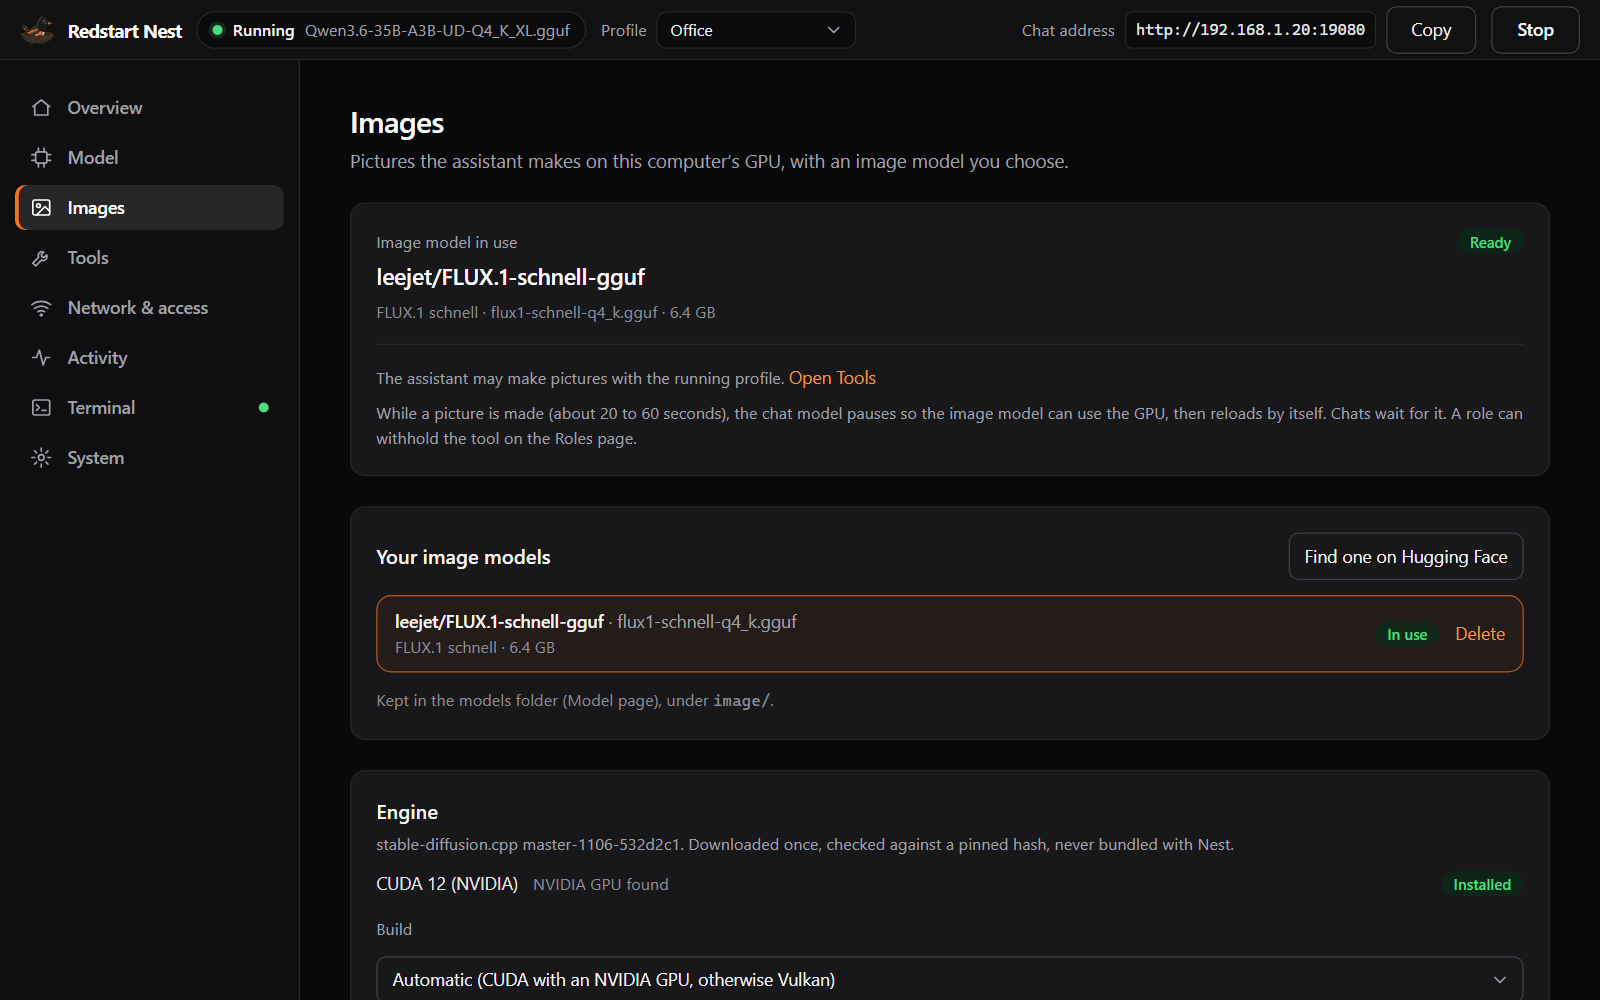
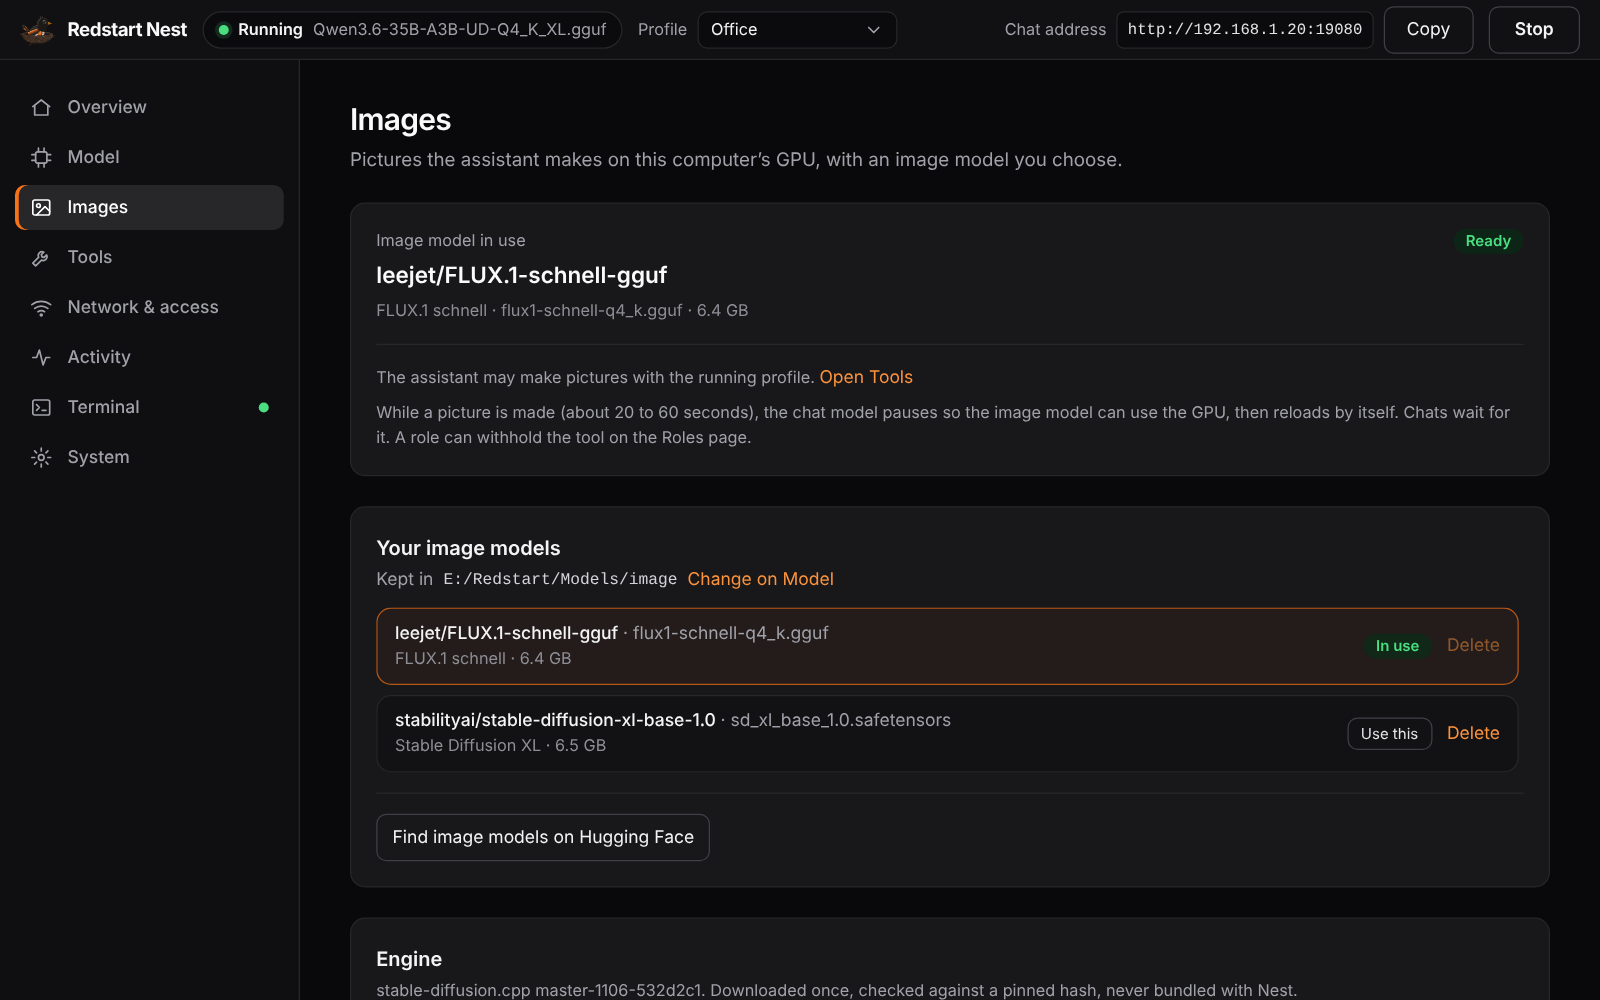
docs(readme): screenshots of the Hugging Face browsers; fixes they turned up
README: the chat-model and image-model Hugging Face browsers under Model and
Images, and the Images page retaken (its list is now the Model page's).
These were taken of the real launcher UI in a headless browser against a
faked daemon (sample models, an RTX 3060 with 31 GB of RAM, as in the other
screenshots), since Hugging Face and a GPU are out of reach where they were
made.

Taking them found three things, fixed here:
- The browsers showed no GPU or RAM, and so no memory bars, unless "Check
  hardware" had been pressed on the Model page this session. Opening either
  browser now reads the hardware (ensureHardware), without the thread and
  GPU-layer reset that "Check hardware" also does, so the profile is not
  marked as changed.
- The Images page said "the models folder" instead of the path until the
  Model page had been opened; it now reads the folder itself.
- Model names in the results broke mid-word ("…A3B-GG / UF"); they now wrap
  at hyphens. The image search box no longer squeezes its placeholder to
  "Searcl" when both chips show.

Claude-Session: https://claude.ai/code/session_013KefXYcMEkp2Gko3WMCut4

diff --git a/redstart-nest/src/launcher/sections/ImagesSection.tsx b/redstart-nest/src/launcher/sections/ImagesSection.tsx
@@ -13,7 +13,7 @@
 // The cost is said plainly: the chat model pauses while a picture is made.
 // =============================================================================
 
-import { useState } from 'react'
+import { useEffect, useState } from 'react'
 import { getAPI } from '../api/redstart'
 import type { HardwareSpecs, ImageGenerationStatus, ImageModelEntry, ImageTransferProgress, LlamaConfig } from '../types'
 import type { SectionId } from './Sidebar'
@@ -26,7 +26,7 @@ import { HardwareFacts } from '../components/HubBrowser'
 const size = (n: number | null | undefined) => typeof n === 'number' ? (n >= 1024 ** 3 ? `${(n / 1024 ** 3).toFixed(1)} GB` : `${Math.round(n / 1024 ** 2)} MB`) : '—'
 const pct = (p: ImageTransferProgress | null) => p?.totalBytes ? Math.min(100, Math.round(((p.receivedBytes ?? 0) / p.totalBytes) * 100)) : 0
 
-export function ImagesSection({ config, documentsConfigured, onNavigate, hardware, diskFreeBytes, modelsDir }: {
+export function ImagesSection({ config, documentsConfigured, onNavigate, hardware, onNeedHardware, diskFreeBytes, modelsDir }: {
   config: LlamaConfig
   documentsConfigured: boolean
   onNavigate: (s: SectionId) => void
@@ -35,9 +35,15 @@ export function ImagesSection({ config, documentsConfigured, onNavigate, hardwar
   diskFreeBytes?: number
   /** The Model page's models folder; image models live in its image/ folder. */
   modelsDir?: string
+  /** Read the hardware (without changing settings) for the browser's memory bars. */
+  onNeedHardware?: () => void
 }) {
   const { status, error, engineProgress, downloadProgress, run } = useImageGeneration()
   const [finding, setFinding] = useState(false)
+  // The models folder, read here when the Model page has not loaded it yet.
+  const [ownModelsDir, setOwnModelsDir] = useState<string>('')
+  useEffect(() => { if (!modelsDir) getAPI()?.settings.getModelsDir().then(setOwnModelsDir).catch(() => {}) }, [modelsDir])
+  const folder = modelsDir || ownModelsDir
   const [confirmDelete, setConfirmDelete] = useState<ImageModelEntry | null>(null)
   const api = getAPI()
 
@@ -88,7 +94,7 @@ export function ImagesSection({ config, documentsConfigured, onNavigate, hardwar
           <SectionTitle className="mb-1">Your image models</SectionTitle>
           <div className="mb-3 flex flex-wrap items-center gap-2 text-sm text-zinc-400">
             <span>Kept in</span>
-            <code className="break-all text-[13px] text-zinc-300">{modelsDir ? `${modelsDir}${modelsDir.includes('\\') ? '\\' : '/'}image` : 'the models folder, under image/'}</code>
+            <code className="break-all text-[13px] text-zinc-300">{folder ? `${folder}${folder.includes('\\') ? '\\' : '/'}image` : 'the models folder, under image/'}</code>
             <button type="button" className={btnCls.subtle} onClick={() => onNavigate('model')}
               data-tip="Image models follow the models folder chosen on the Model page">Change on Model</button>
           </div>
@@ -116,7 +122,7 @@ export function ImagesSection({ config, documentsConfigured, onNavigate, hardwar
           )}
 
           <div className="mt-4 flex flex-wrap gap-2 border-t border-zinc-800 pt-4">
-            <button type="button" className={btnCls.secondary} onClick={() => setFinding(true)}>Find image models on Hugging Face</button>
+            <button type="button" className={btnCls.secondary} onClick={() => { setFinding(true); onNeedHardware?.() }}>Find image models on Hugging Face</button>
           </div>
         </Card>
 

diff --git a/redstart-nest/src/launcher/sections/ModelSection.tsx b/redstart-nest/src/launcher/sections/ModelSection.tsx
@@ -69,7 +69,7 @@ export function ModelSection({
   generatedCommand: string
   onGenerateCommand: () => void
 }) {
-  const { hardware, scanHardware, applyModelPath } = hw
+  const { hardware, scanHardware, ensureHardware, applyModelPath } = hw
   const { modelsDir, localFiles, disk, changeFolder, deleteLocal } = catalog
   const [hfOpen, setHfOpen] = useState(false)
   const [advanced, setAdvanced] = useState(false)
@@ -163,7 +163,7 @@ export function ModelSection({
         )}
 
         <div className="mt-4 flex flex-wrap gap-2 border-t border-zinc-800 pt-4">
-          <button type="button" onClick={() => setHfOpen(true)} className={btnCls.secondary}>Find models on Hugging Face</button>
+          <button type="button" onClick={() => { setHfOpen(true); void ensureHardware() }} className={btnCls.secondary}>Find models on Hugging Face</button>
           <FolderPicker mode="file" extensions={['gguf']} extensionLabel="GGUF models" title="Choose a .gguf file"
             startPath={modelPath || (modelsDir ? `${modelsDir}${modelsDir.includes('\\') ? '\\' : '/'}` : undefined)} onPick={applyModelPath} className={btnCls.secondary}>
             Use a file from another folder…

diff --git a/redstart-nest/src/launcher/components/HubBrowser.tsx b/redstart-nest/src/launcher/components/HubBrowser.tsx
@@ -207,7 +207,7 @@ export function ResultRow({ active, onClick, disabled, tip, title, tags, second,
     <button type="button" onClick={onClick} disabled={disabled} data-tip={tip} aria-current={active ? 'true' : undefined}
       className={`${RESULT_COLS} my-0.5 w-full items-center rounded-lg border px-2 py-2 text-left transition-colors disabled:opacity-50 ${active ? 'border-orange-500/60 bg-orange-500/[0.08]' : 'border-transparent hover:bg-zinc-800/60'}`}>
       <span className="min-w-0">
-        <span className="block break-all text-[13.5px] font-medium leading-snug text-zinc-100">{title}</span>
+        <span className="block text-[13.5px] font-medium leading-snug text-zinc-100 [overflow-wrap:anywhere]">{title}</span>
         <span className="mt-0.5 flex flex-wrap gap-x-1.5 text-[11.5px] text-zinc-400">{tags}</span>
       </span>
       <span className="truncate font-mono text-xs text-zinc-300">{second}</span>

diff --git a/redstart-nest/src/launcher/sections/ImageModelBrowser.tsx b/redstart-nest/src/launcher/sections/ImageModelBrowser.tsx
@@ -106,7 +106,7 @@ export function ImageModelBrowser({ status, hardware, progress, onDownload, onCa
         ...(familyFilter ? [{ label: famLabel, tone: 'family' as const, onClear: () => pickFamily('') }] : []),
       ]}
       query={query} onQuery={setQuery} onSubmit={() => void search()}
-      placeholder={publisher && familyFilter ? 'Search…' : publisher ? `Search ${pubLabel}’s image models…` : 'Search Hugging Face for image models (flux schnell gguf, sdxl…)'}
+      placeholder={publisher && familyFilter ? '' : publisher ? `Search ${pubLabel}’s image models…` : 'Search Hugging Face for image models (flux schnell gguf, sdxl…)'}
       sort={sort} onSort={s => { setSort(s); void search({ sort: s }) }}>
       <ScopeSelect value={publisher} onChange={pickSource}
         options={[{ id: '', label: 'All of Hugging Face' }, ...status.publishers.map(p => ({ id: p.id, label: p.label }))]} />

diff --git a/redstart-nest/src/launcher/hooks/useHardwareAndBinary.ts b/redstart-nest/src/launcher/hooks/useHardwareAndBinary.ts
@@ -31,6 +31,14 @@ export function useHardwareAndBinary(
     }))
   }
 
+  // Read the hardware without touching the config, for screens that only show
+  // it (the Hugging Face browsers' memory bars). scanHardware() also resets
+  // threads and GPU layers, which would mark the profile as changed.
+  async function ensureHardware() {
+    if (hardware) return
+    try { setHardware(await api().hardware.scan()) } catch { /* the bars just stay hidden */ }
+  }
+
   async function applyBinaryPath(p: string) {
     await api().settings.setBinaryPath(p)
     setBinaryPath(p)
@@ -46,5 +54,5 @@ export function useHardwareAndBinary(
     setConfig(prev => ({ ...prev, modelPath: p }))
   }
 
-  return { hardware, binaryPath, scanHardware, applyBinaryPath, clearBinaryOverride, applyModelPath }
+  return { hardware, binaryPath, scanHardware, ensureHardware, applyBinaryPath, clearBinaryOverride, applyModelPath }
 }

diff --git a/redstart-nest/src/launcher/App.tsx b/redstart-nest/src/launcher/App.tsx
@@ -250,7 +250,7 @@ export default function App() {
             )}
             {section === 'images' && (
               <ImagesSection config={config} documentsConfigured={!!caps.capabilityConfig?.documents.outputDir} onNavigate={setSection}
-                hardware={hw.hardware} diskFreeBytes={modelCatalog.disk.freeBytes} modelsDir={modelCatalog.modelsDir} />
+                hardware={hw.hardware} onNeedHardware={hw.ensureHardware} diskFreeBytes={modelCatalog.disk.freeBytes} modelsDir={modelCatalog.modelsDir} />
             )}
             {section === 'tools' && (
               <ToolsSection config={config} toolsCatalog={toolsCatalog} caps={caps} mcp={mcp} plugins={plugins} onOpenImages={() => setSection('images')} />

diff --git a/README.md b/README.md
@@ -44,9 +44,17 @@ LM Studio, Jan and Ollama are model runners — very good ones — aimed at gett
 
 <a href="docs/screenshots/nest-model.png"><img src="docs/screenshots/nest-model.png" width="100%" alt="Nest's Model page: the model in use, the hardware line, and the models folder with a vision model marked as seeing images." /></a>
 
-**Images** — the picture model, the way Model is the chat model: the image model in use, your image models, finding one on Hugging Face, and the engine.
+**Finding a model** — **Find models on Hugging Face** opens a browser: recommended publishers on the left, a search that stays inside the publisher you picked, and the model you open beside the list. Each size is drawn against your GPU memory and RAM, so you can see what fits before you download it.
 
-<a href="docs/screenshots/nest-images.png"><img src="docs/screenshots/nest-images.png" width="100%" alt="Nest's Images page: FLUX.1 schnell in use and ready, the image models list, and the stable-diffusion.cpp engine installed with its CUDA build." /></a>
+<a href="docs/screenshots/nest-hf-models.png"><img src="docs/screenshots/nest-hf-models.png" width="100%" alt="The Find models on Hugging Face browser: Unsloth chosen in the sidebar, a search for qwen inside it, the results sorted by downloads, and Qwen3.6-35B-A3B opened on the right with each size from 13 to 37 GB drawn against the computer's 12 GB GPU and 31 GB of RAM, the one already downloaded marked." /></a>
+
+**Images** — the picture model, the way Model is the chat model: the image model in use, your image models (the same list as Model's), finding one on Hugging Face, and the engine.
+
+<a href="docs/screenshots/nest-images.png"><img src="docs/screenshots/nest-images.png" width="100%" alt="Nest's Images page: FLUX.1 schnell in use and ready, and the image models list with a Stable Diffusion XL model beside it, kept in the models folder's image folder." /></a>
+
+The image browser works the same way, with a **Family** filter for the kinds of image model Nest runs. It shows the family's shared files with each size, which come along with the first model of a family.
+
+<a href="docs/screenshots/nest-hf-images.png"><img src="docs/screenshots/nest-hf-images.png" width="100%" alt="The Find image models on Hugging Face browser: city96 and the FLUX.1 schnell family chosen, four FLUX.1 schnell conversions listed, and one opened with its family read from the model card and each file drawn against the GPU and RAM." /></a>
 
 **Tools** — one row per tool with its switch; opening a row shows its settings.
 
